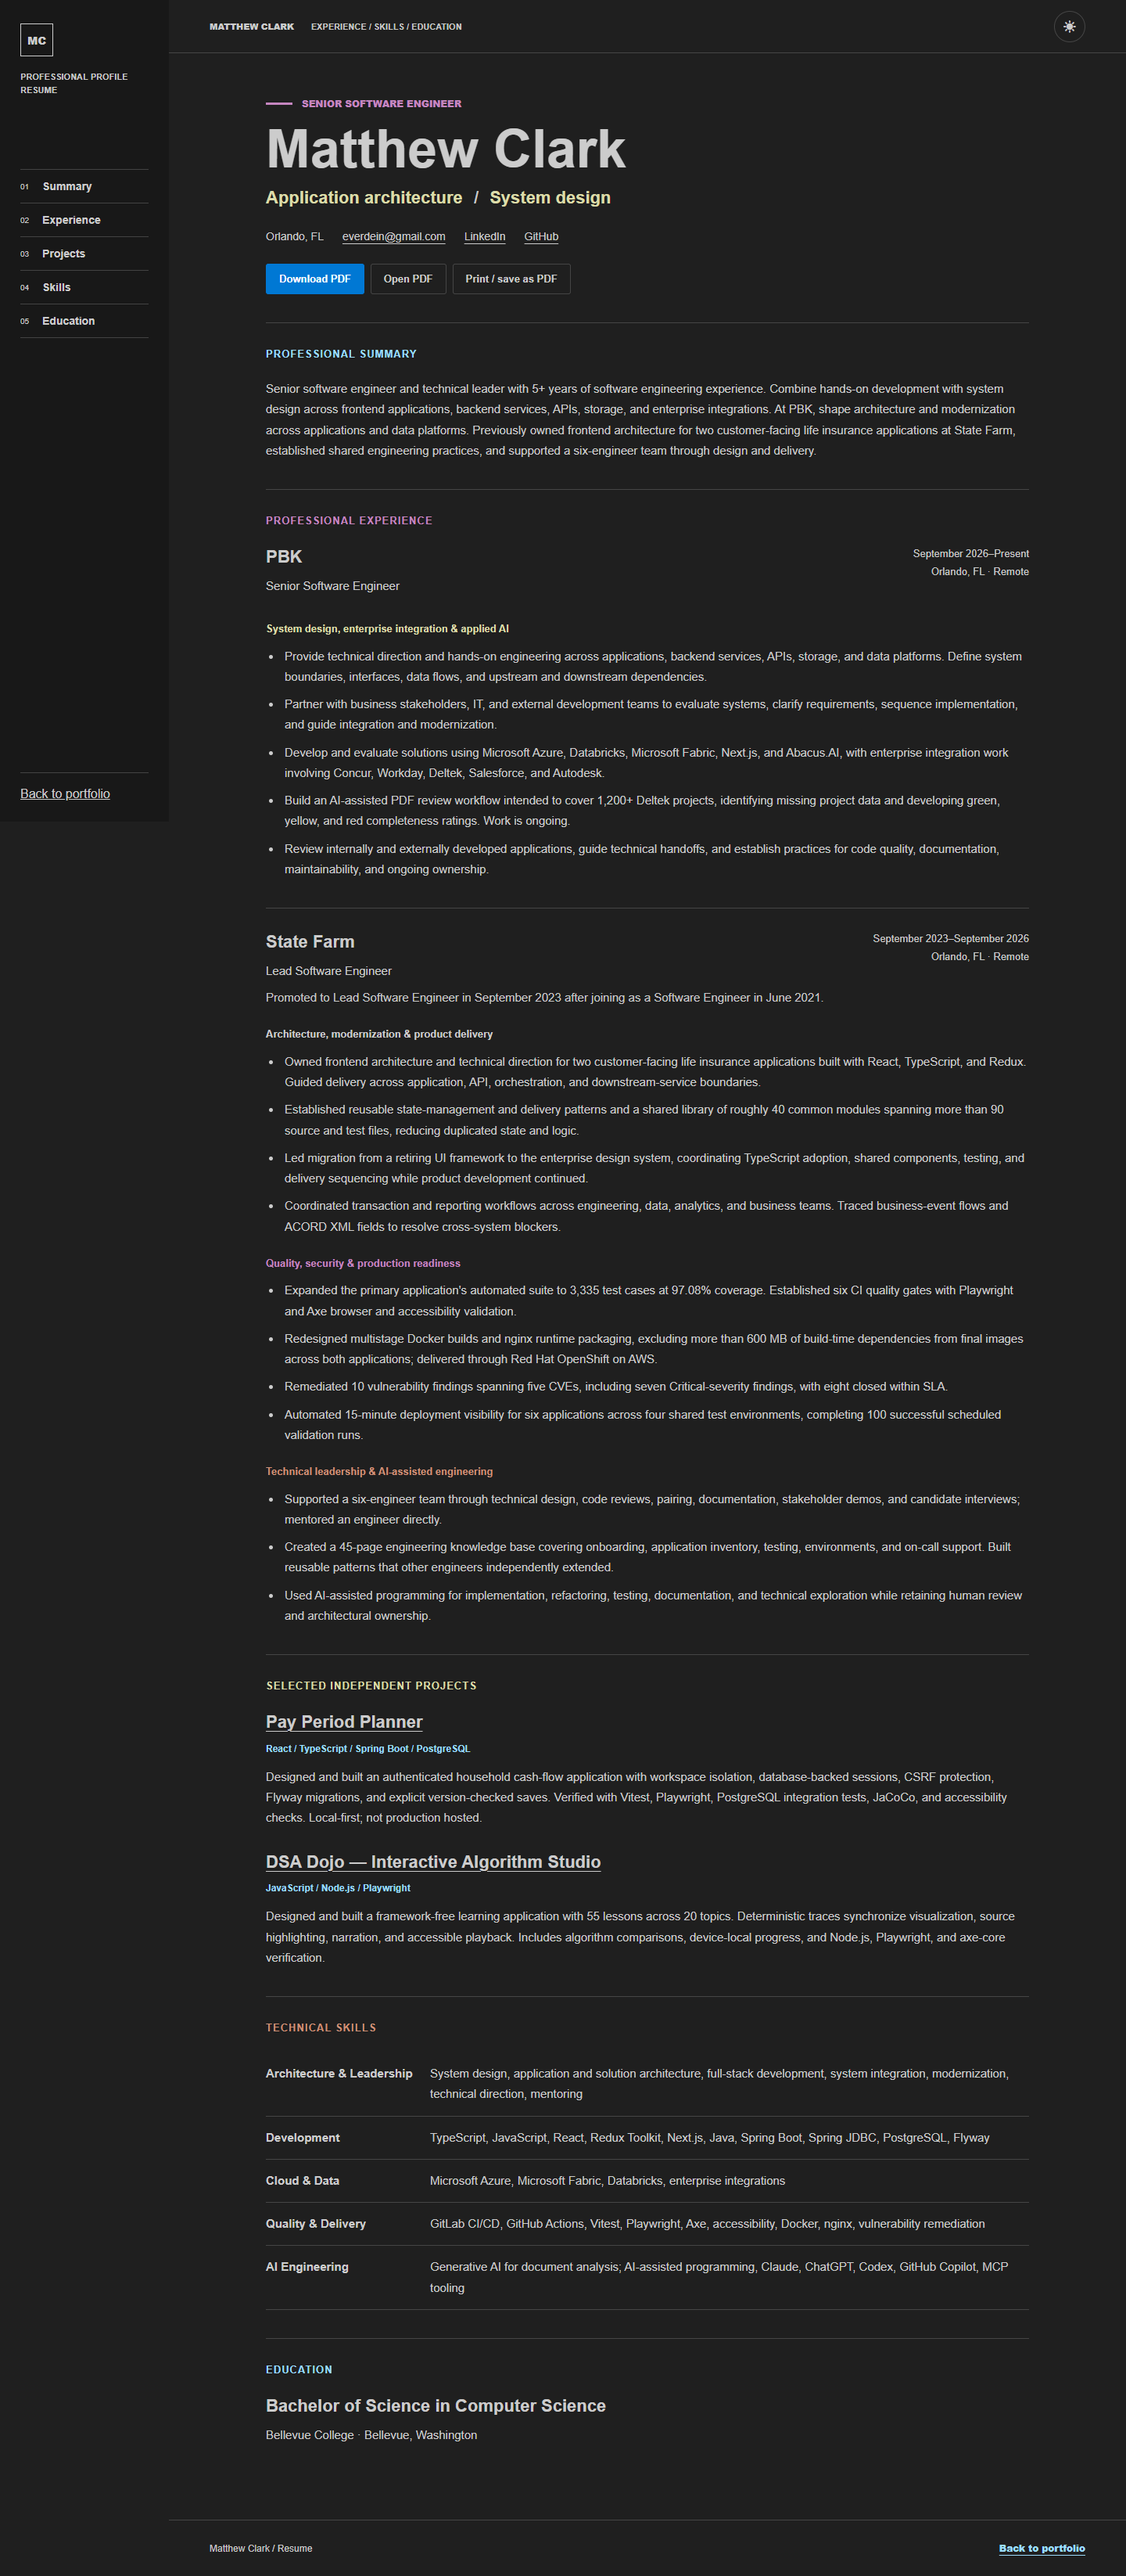
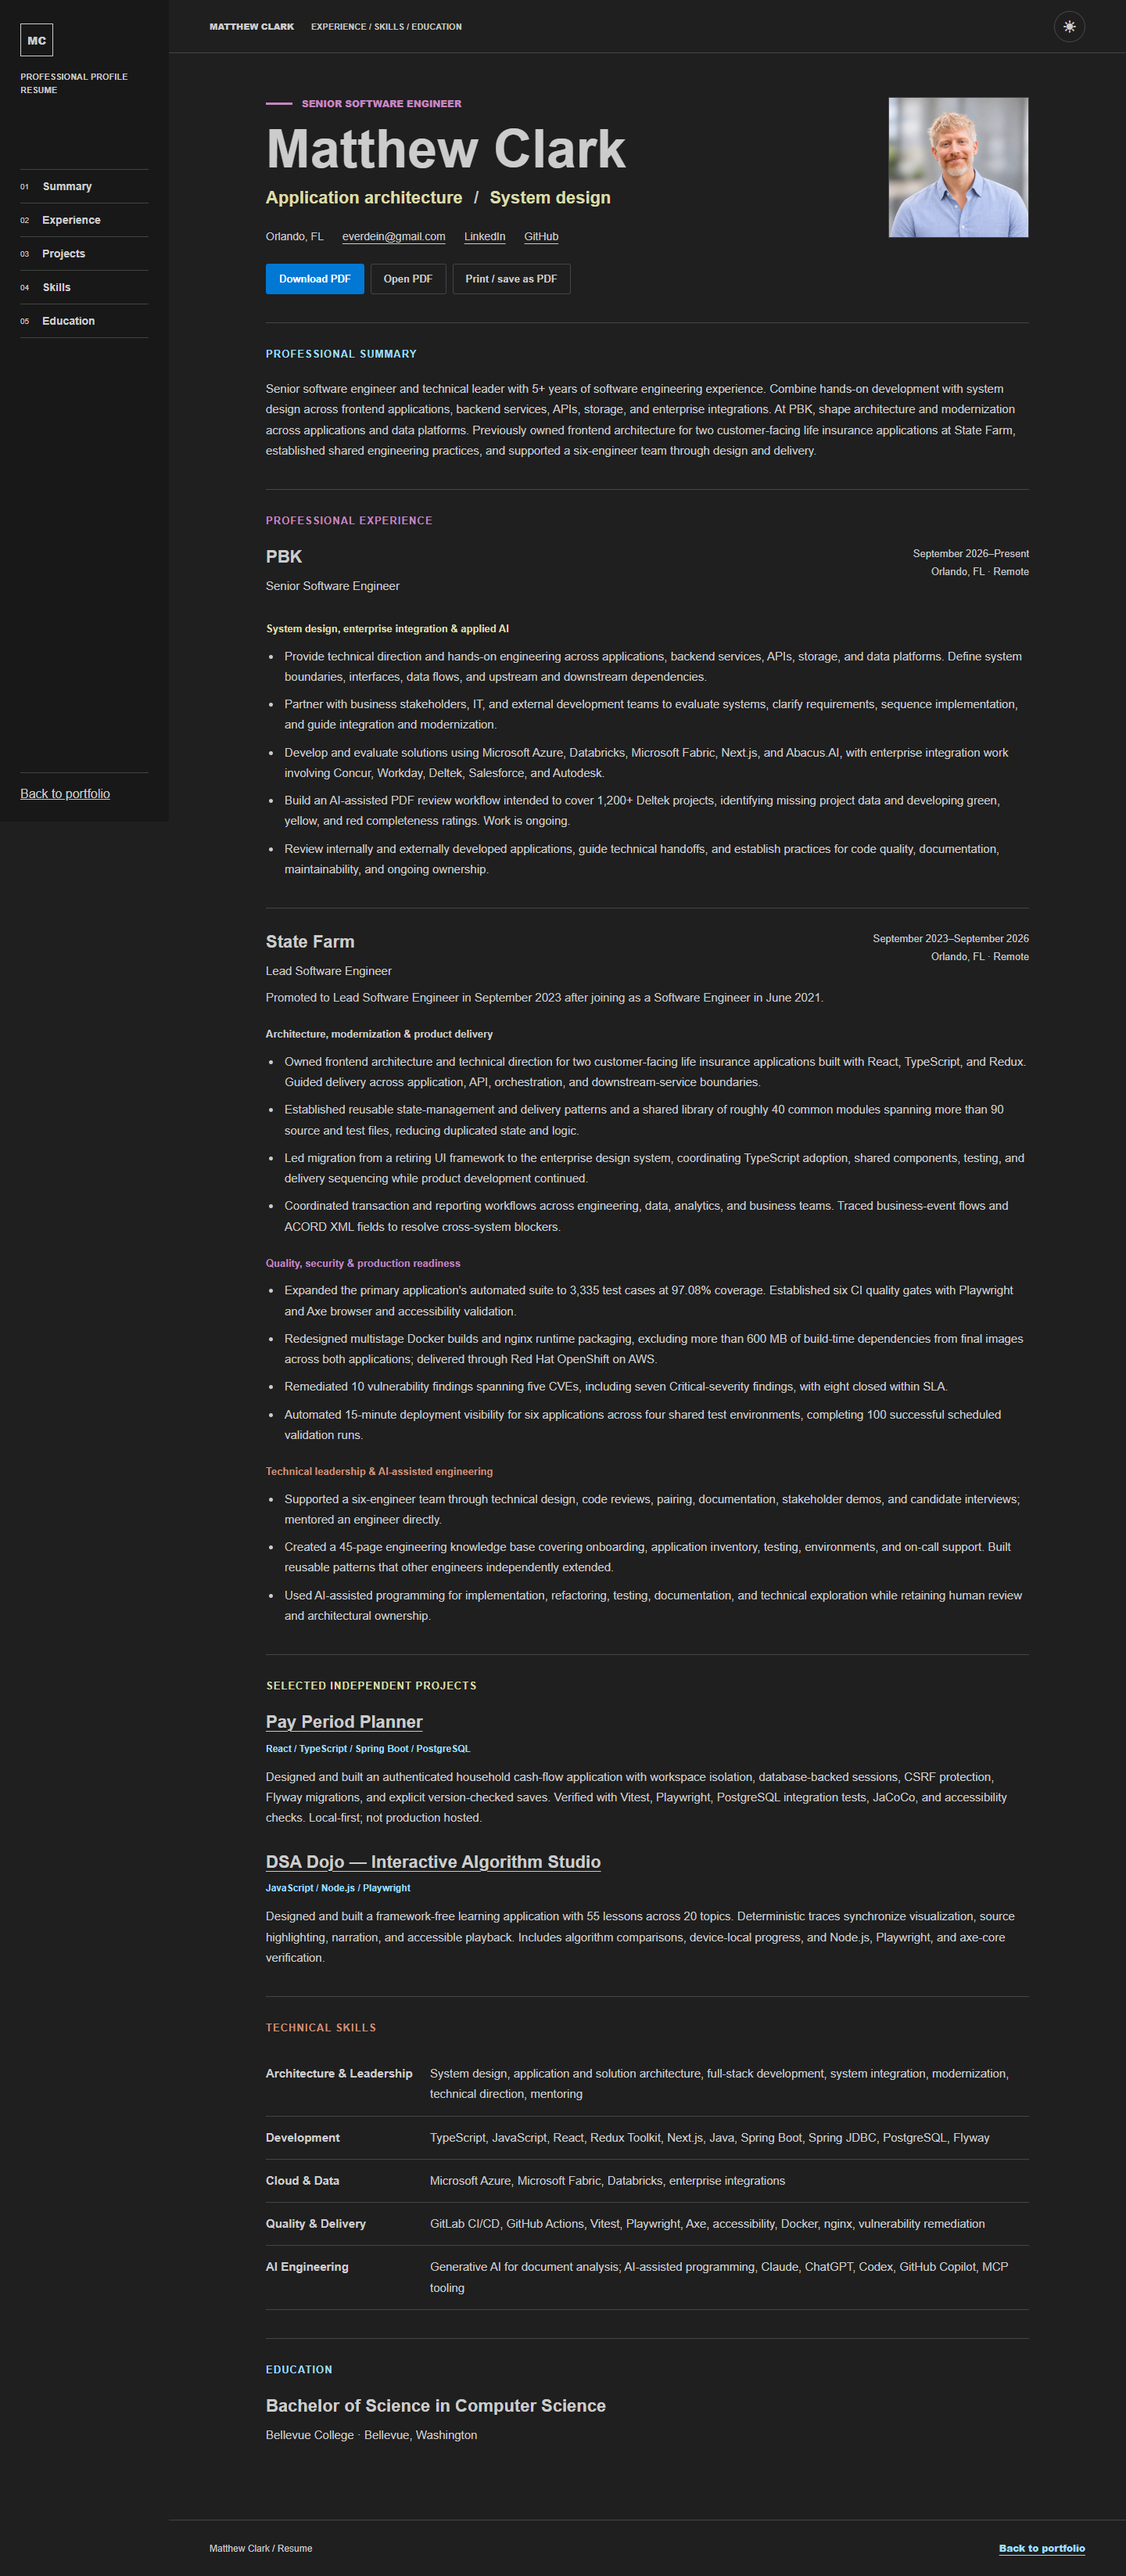
Add portfolio portrait to resume header

Changed region(s): [[0.7812, 0.031, 0.9375, 0.093]]

diff --git a/app/resume/page.tsx b/app/resume/page.tsx
@@ -1,4 +1,5 @@
 import type { Metadata } from "next";
+import Image from "next/image";
 import { ExternalLink } from "../ExternalLink";
 import { ThemeToggle } from "../ThemeToggle";
 import { PrintResume } from "./PrintResume";
@@ -67,6 +68,14 @@ export default function Resume() {
         </header>
         <article className="resume-document" aria-labelledby="resume-title">
           <header className="resume-heading">
+            <Image
+              className="resume-portrait"
+              src={`${basePath}/images/matthew-clark-headshot.jpg`}
+              alt="Matthew Clark wearing a light blue shirt against a softly blurred neutral background"
+              width={220}
+              height={220}
+              priority
+            />
             <p className="role">Senior Software Engineer</p>
             <h1 id="resume-title">Matthew Clark</h1>
             <p className="resume-specialty">

diff --git a/app/resume/resume.css b/app/resume/resume.css
@@ -3,6 +3,17 @@
   margin: 0 auto;
   padding: 56px 52px 80px;
 }
+.resume-heading {
+  display: flow-root;
+}
+.resume-portrait {
+  float: right;
+  width: 180px;
+  height: 180px;
+  margin: 0 0 24px 32px;
+  object-fit: cover;
+  border: 1px solid var(--rule);
+}
 .resume-heading h1 {
   font-size: clamp(40px, 5vw, 68px);
   overflow-wrap: anywhere;
@@ -155,6 +166,13 @@ html[data-theme="dark"] .resume-experience-group:nth-of-type(4) h4 {
   color: var(--syntax-string);
 }
 @media (max-width: 700px) {
+  .resume-portrait {
+    float: none;
+    display: block;
+    width: 120px;
+    height: 120px;
+    margin: 0 0 24px;
+  }
   .resume-document {
     padding: 32px 20px 48px;
   }
@@ -178,6 +196,9 @@ html[data-theme="dark"] .resume-experience-group:nth-of-type(4) h4 {
   }
 }
 @media print {
+  .resume-portrait {
+    display: none;
+  }
   @page {
     size: letter;
     margin: 0.6in;

diff --git a/e2e/resume.spec.ts b/e2e/resume.spec.ts
@@ -5,6 +5,8 @@ test("resume supports themes, narrow screens, PDF access and printing", async ({
   request,
 }) => {
   await page.goto("./resume/");
+  await expect(page.locator(".resume-portrait")).toBeVisible();
+  expect(await page.locator(".resume-portrait").evaluate((image) => (image as HTMLImageElement).naturalWidth)).toBeGreaterThan(0);
   await expect(page.getByRole("heading", { level: 1 })).toHaveText(
     "Matthew Clark",
   );
